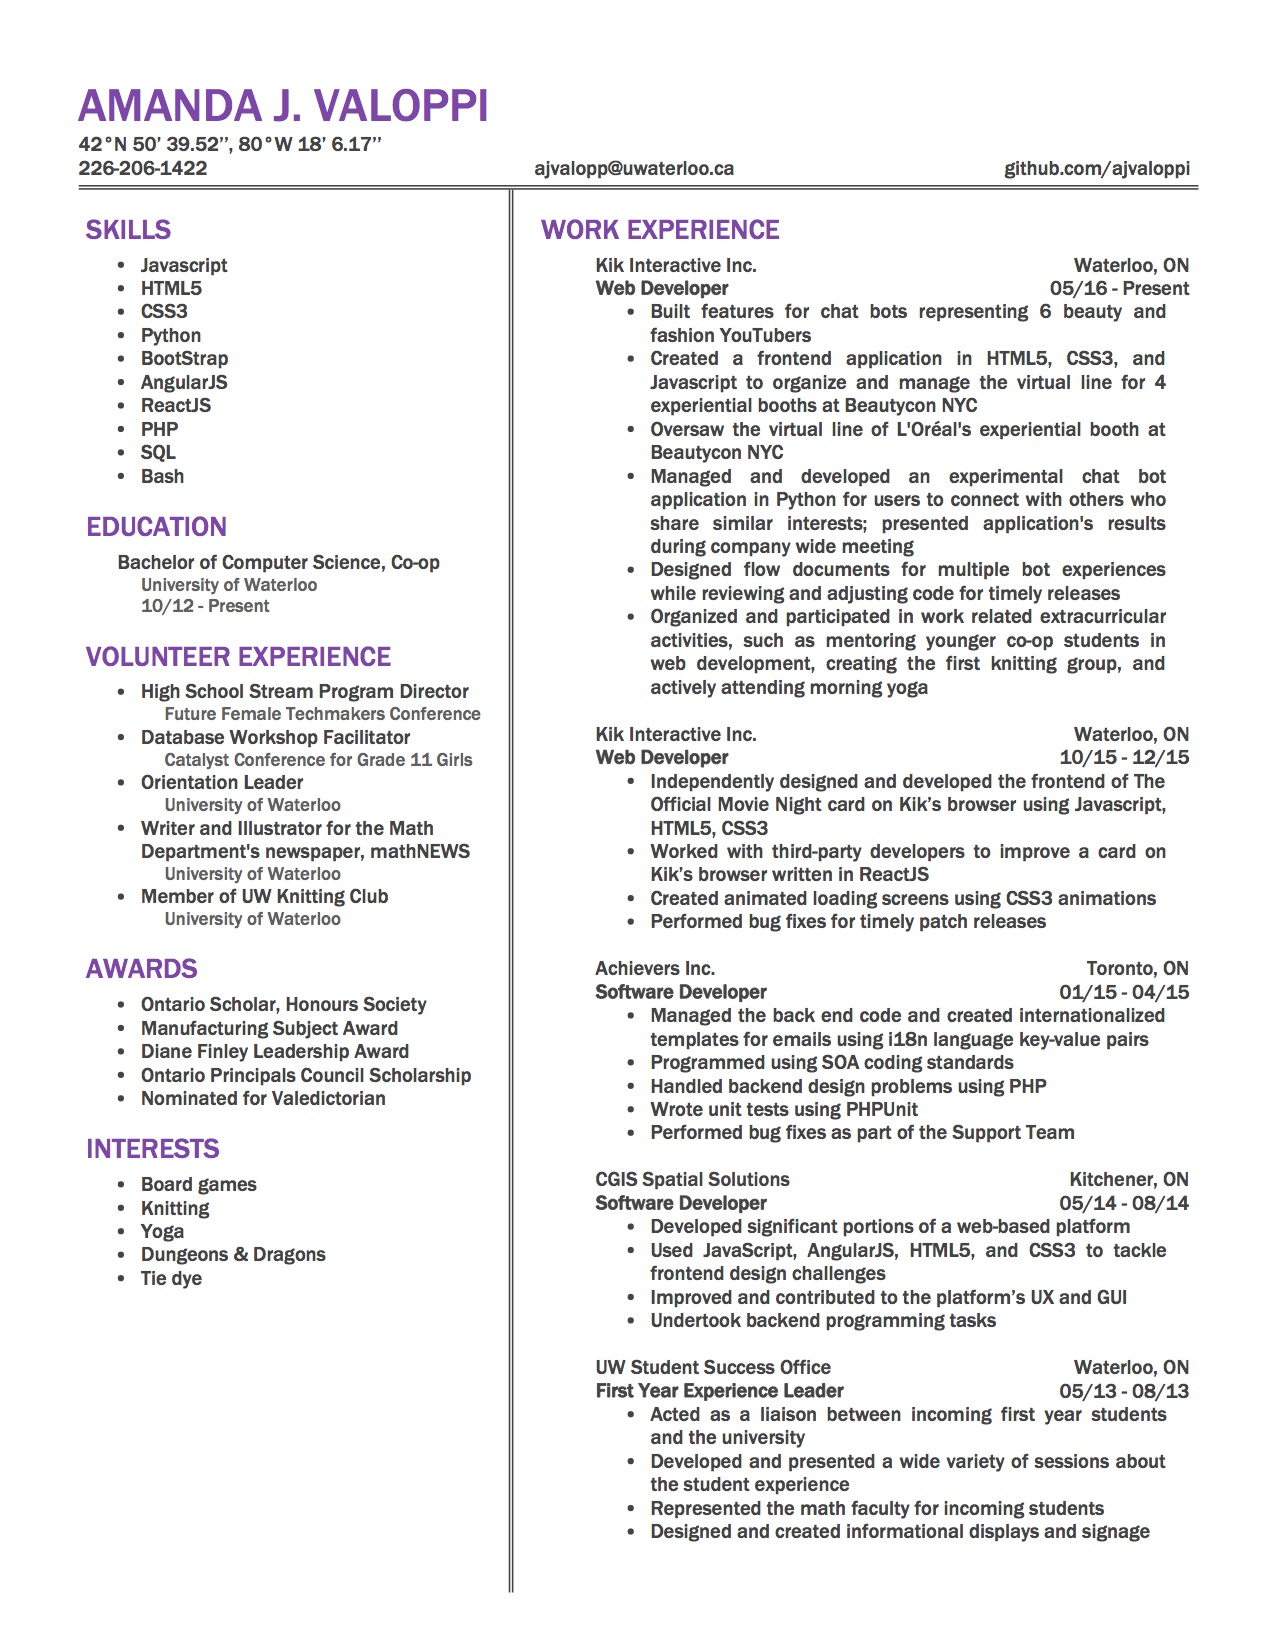
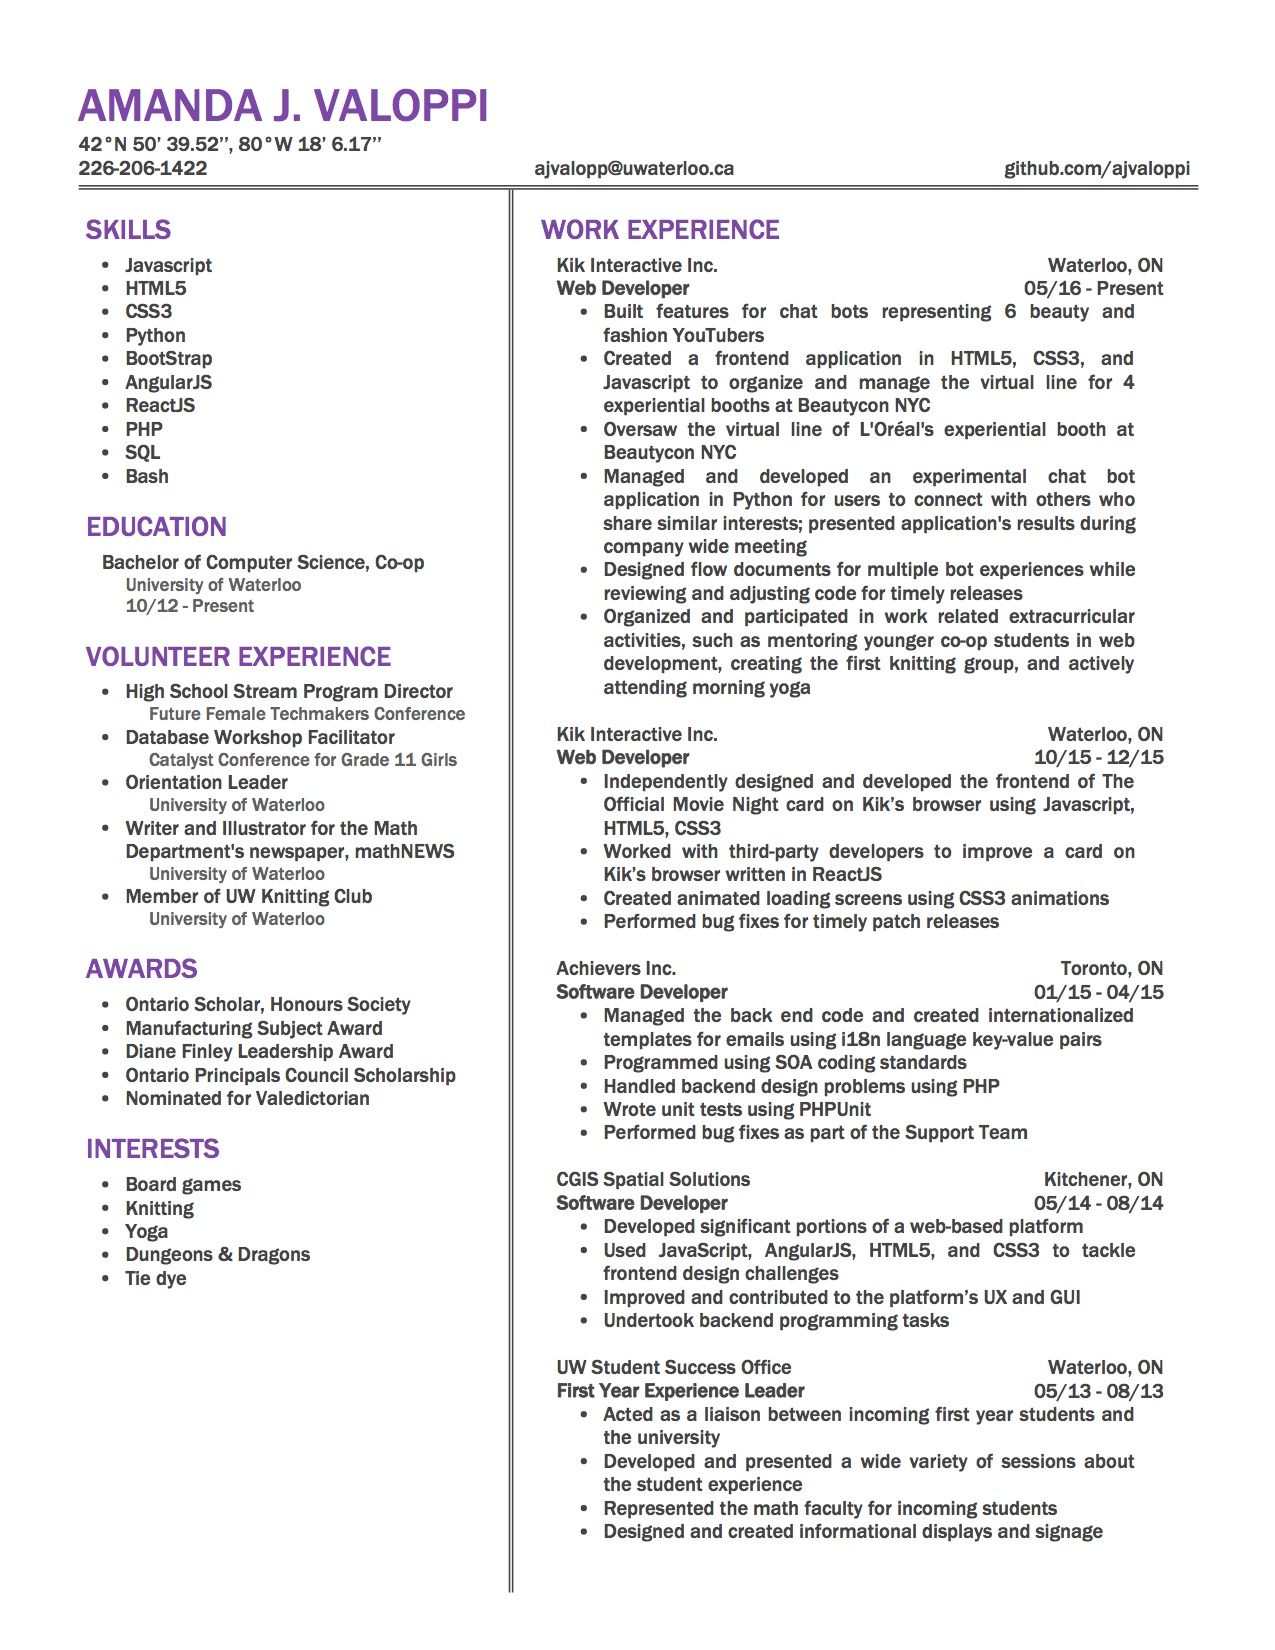
no more widows, no more weird padding

diff --git a/styling.css b/styling.css
@@ -49,11 +49,11 @@ body {
 .list {
 	margin: 0;
 	margin-bottom: 15px;
-	padding-left: 35px;
+	padding-left: 25px;
 }
 
 .education {
-	margin-left: 20px;
+	margin-left: 10px;
 	margin-bottom: 15px;
 }
 
@@ -74,7 +74,11 @@ body {
 
 .work{
 	margin-bottom: 15px;
-	margin-left: 35px;
+	margin-left: 10px;
+}
+
+.work .list {
+	padding-left: 30px;
 }
 
 .info {
@@ -82,7 +86,7 @@ body {
 }
 
 .title {
-	font-weight: 900;
+	font-weight: 700;
 }
 
 .title, .place {
@@ -90,12 +94,13 @@ body {
 }
 
 .location, .date{
-	width: 29%;
+	width: 25%;
 	text-align: right;
+	margin-right: 10px;
 }
 
 .duties {
-	padding-right: 15px;
+	padding-right: 35px;
 }
 
 .duties li {
